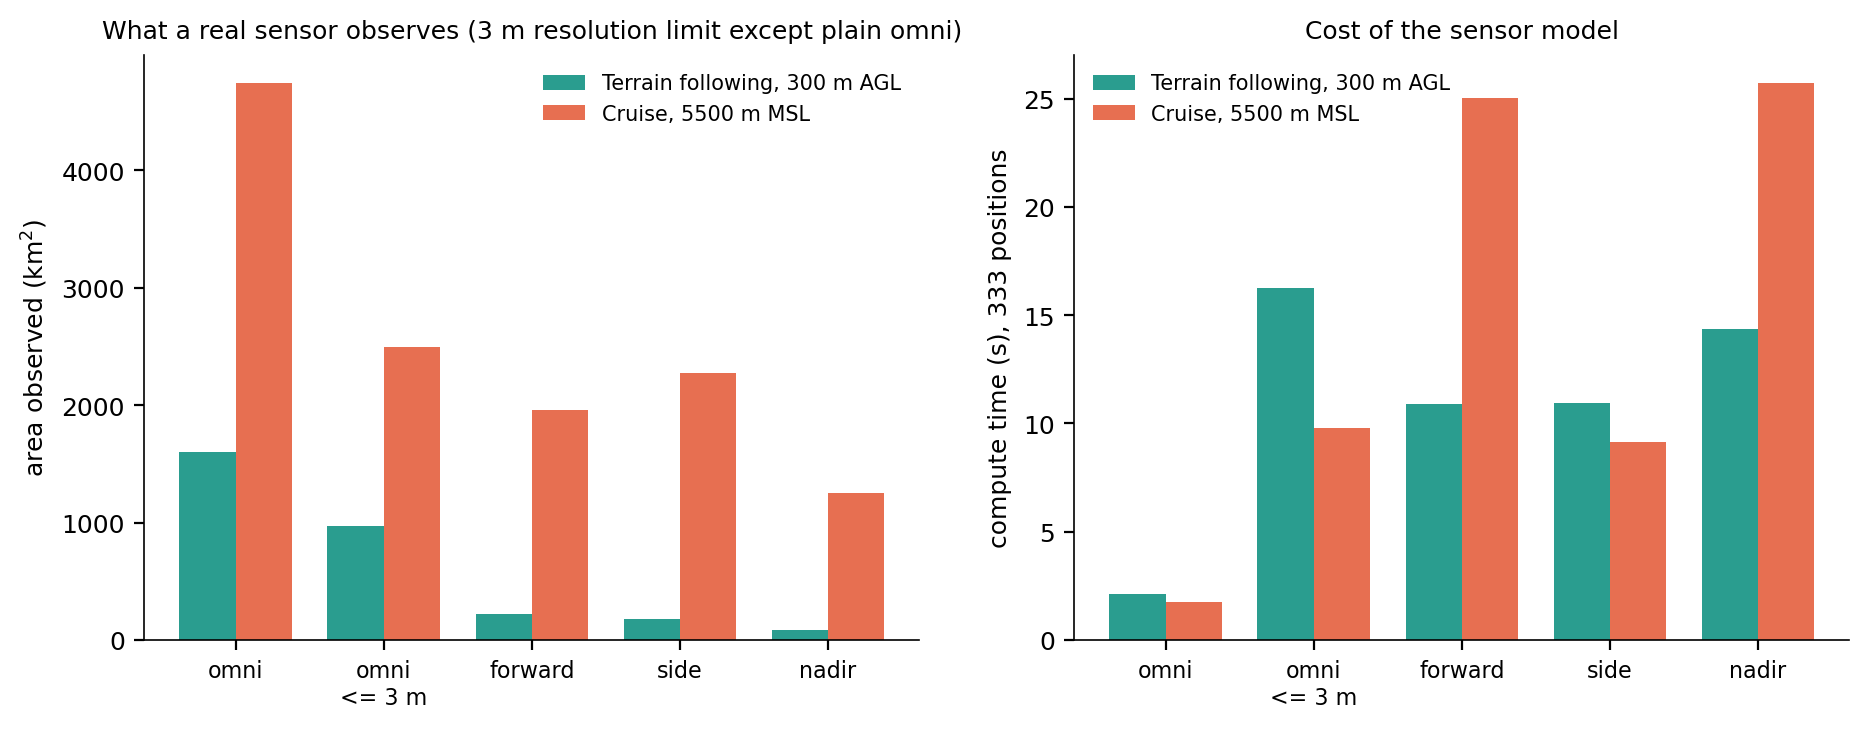
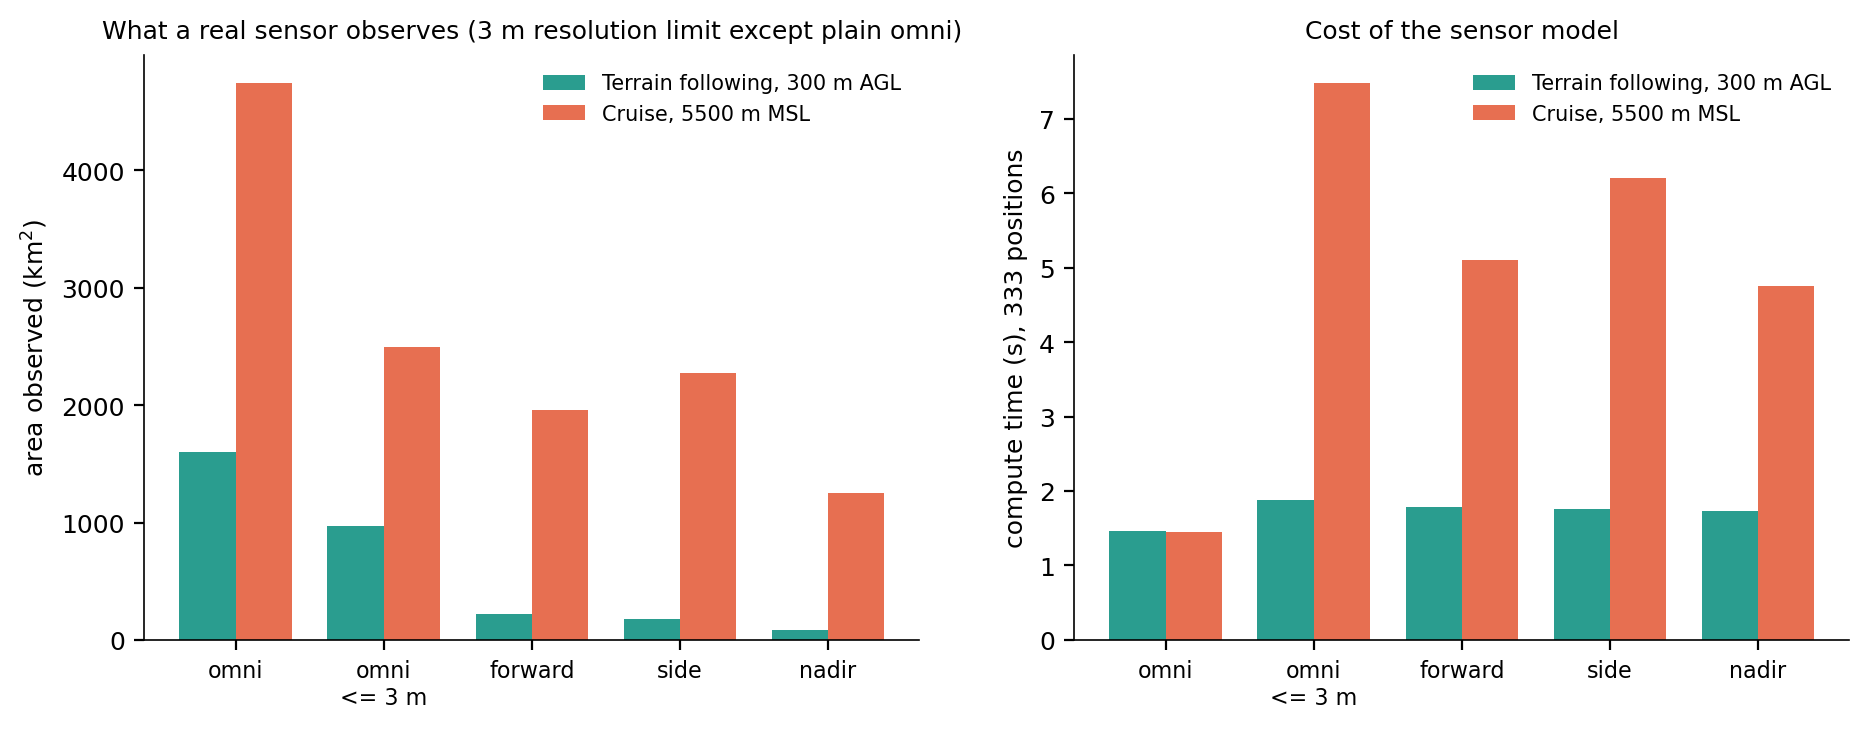
Fix Linux peak memory (VmHWM, not ru_maxrss which survives exec) and build slope arrays once before threads
F11 timing re-run in fresh processes from a small parent.

Changed region(s): [[0.5276, 0.0905, 0.993, 0.7243], [0.5276, 0.2112, 0.5896, 0.7545], [0.5896, 0.7243, 0.6517, 0.845]]

diff --git a/flight/idea2.py b/flight/idea2.py
@@ -2,7 +2,8 @@
 
   sensors   F11  valley (300 m AGL) and cruise (5500 m MSL), 500 m spacing, 20 km radius, five sensors
                  (omni, omni + 3 m resolution limit, forward camera, side-looking pair, nadir camera):
-                 area observed, dwell time at 60 m/s, rasters; runtime / memory in fresh processes
+                 area observed, dwell time at 60 m/s, rasters
+  timing    F11  runtime / peak memory per sensor in fresh processes
   gsd       F11b area observed vs required ground resolution (0.5 .. 30 m) for the omni camera
   mc        F12  Monte Carlo: DEM error, position error, both; 20 runs each, both profiles;
                  P(seen) rasters and reliable / uncertain area
@@ -38,7 +39,7 @@ def _setup():
     return dem, v, pts, ams
 
 
-def sensors(repeats):
+def sensors():
     dem, v, pts, ams = _setup()
     a = dem.cell ** 2 / 1e6
     res = {}
@@ -57,7 +58,11 @@ def sensors(repeats):
             write_raster(OUT / f"dwell_{prof}_{name}.tif", dwell, dem.gt, dem.proj, gdal.GDT_Float32, nodata=0)
             print(prof, name, {k: (round(x, 2) if isinstance(x, float) else x) for k, x in res[prof][name].items() if k != "sensor"}, flush=True)
     json.dump(res, open(OUT / "sensors.json", "w"), indent=1)
-    # timing and peak memory in fresh processes
+
+
+def timing(repeats):
+    """Runtime and peak memory per sensor, each run in a fresh process (start this step on its own,
+    from a small parent process)."""
     jobs = []
     for prof, kw in PROFILES.items():
         kw = {k: x for k, x in kw.items() if k != "label"}
@@ -169,7 +174,7 @@ def figs():
 
 if __name__ == "__main__":
     ap = argparse.ArgumentParser()
-    ap.add_argument("steps", nargs="*", default=["sensors", "gsd", "mc", "figs"])
+    ap.add_argument("steps", nargs="*", default=["sensors", "timing", "gsd", "mc", "figs"])
     ap.add_argument("--repeats", type=int, default=3)
     ap.add_argument("--runs", type=int, default=20)
     a = ap.parse_args()
@@ -177,4 +182,4 @@ if __name__ == "__main__":
     json.dump(machine_info(), open(OUT / "machine.json", "w"), indent=1)
     for st in a.steps:
         print("==", st, flush=True)
-        {"sensors": lambda: sensors(a.repeats), "gsd": gsd, "mc": lambda: mc(a.runs), "figs": figs}[st]()
+        {"sensors": sensors, "timing": lambda: timing(a.repeats), "gsd": gsd, "mc": lambda: mc(a.runs), "figs": figs}[st]()

diff --git a/common/bench.py b/common/bench.py
@@ -27,14 +27,23 @@ FIELDS = ["track", "experiment", "algorithm", "dem_id", "width", "height", "cell
 
 
 def peak_kb():
-    """Peak resident memory of this process in KB: peak_wset on Windows, ru_maxrss on Linux/macOS
+    """Peak resident memory of this process in KB: peak_wset on Windows, VmHWM on Linux, ru_maxrss on macOS
     (psutil has no peak there; falling back to rss would report the memory in use at the END)."""
     mi = psutil.Process().memory_info()
     if hasattr(mi, "peak_wset"):
         return int(mi.peak_wset / 1024)
+    try:                                  # Linux: high-water mark of THIS process image (fresh after exec)
+        with open("/proc/self/status") as f:
+            for line in f:
+                if line.startswith("VmHWM:"):
+                    return int(line.split()[1])
+    except OSError:
+        pass
+    # macOS / fallback.  Note: on Linux ru_maxrss survives exec, so a child started by a large
+    # parent would report the parent's peak - that is why /proc is preferred above.
     import resource, sys
     m = resource.getrusage(resource.RUSAGE_SELF).ru_maxrss
-    return int(m / 1024) if sys.platform == "darwin" else int(m)     # bytes on macOS, KB on Linux
+    return int(m / 1024) if sys.platform == "darwin" else int(m)
 
 
 def current_kb():

diff --git a/flight/sensor.py b/flight/sensor.py
@@ -97,15 +97,18 @@ def sensor_mask(dem, rc, cc, ox, oy, alt, heading, r0, c0, vis, s):
 
 
 _GRAD = {}
+_GRAD_LOCK = threading.Lock()
 
 
 def _gradients(dem):
     """dz/d(east) and dz/d(north) for the whole DEM, float32, computed once per DEM."""
     key = id(dem.z)
-    if key not in _GRAD:
+    with _GRAD_LOCK:
+        if key in _GRAD:
+            return _GRAD[key]
         gs, ge = np.gradient(np.nan_to_num(dem.z, nan=0.0).astype(np.float32), dem.cell)
         _GRAD.clear(); _GRAD[key] = (ge.astype(np.float32), (-gs).astype(np.float32))
-    return _GRAD[key]
+        return _GRAD[key]
 
 
 class _Ctx:
@@ -119,6 +122,8 @@ def run_sensor(dem, xs, ys, alts, heads, radius, sensor, workers=12, target_h=0.
     t0 = time.perf_counter()
     shared = shared or SharedDEM(dem.z, dem.gt, dem.proj)
     acc = Accumulator(dem.shape, dem.cell)
+    if sensor.ifov:
+        _gradients(dem)                  # once, before the threads (else every thread builds its own)
 
     def one(i):
         c, r = dem.to_pixel(xs[i], ys[i])
